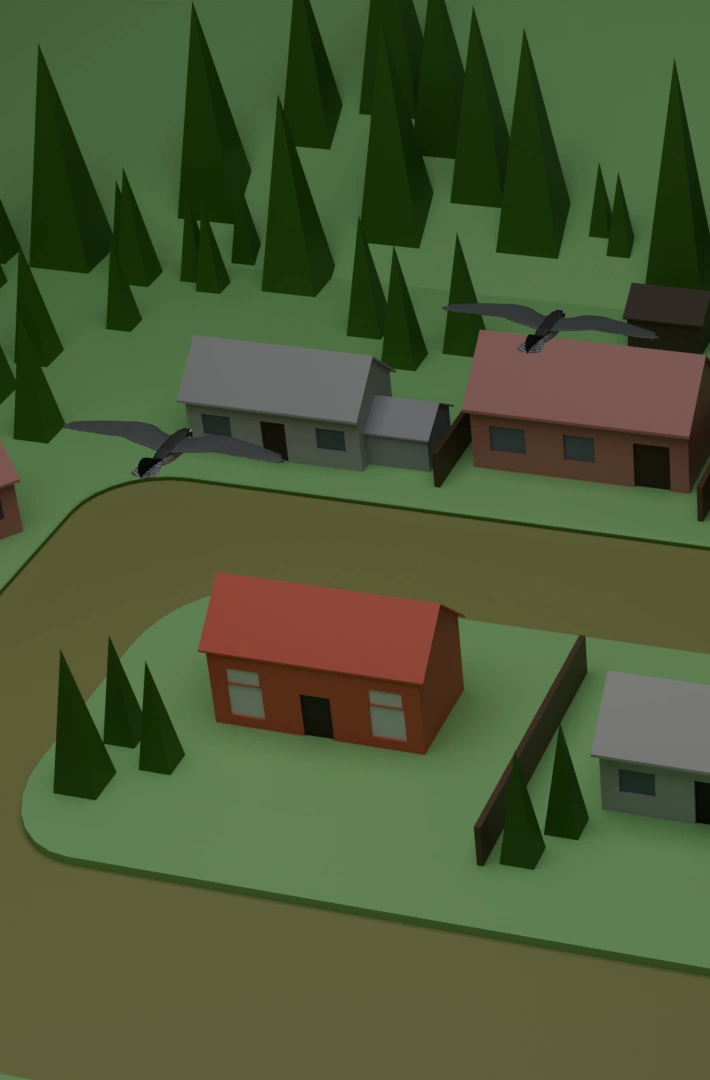
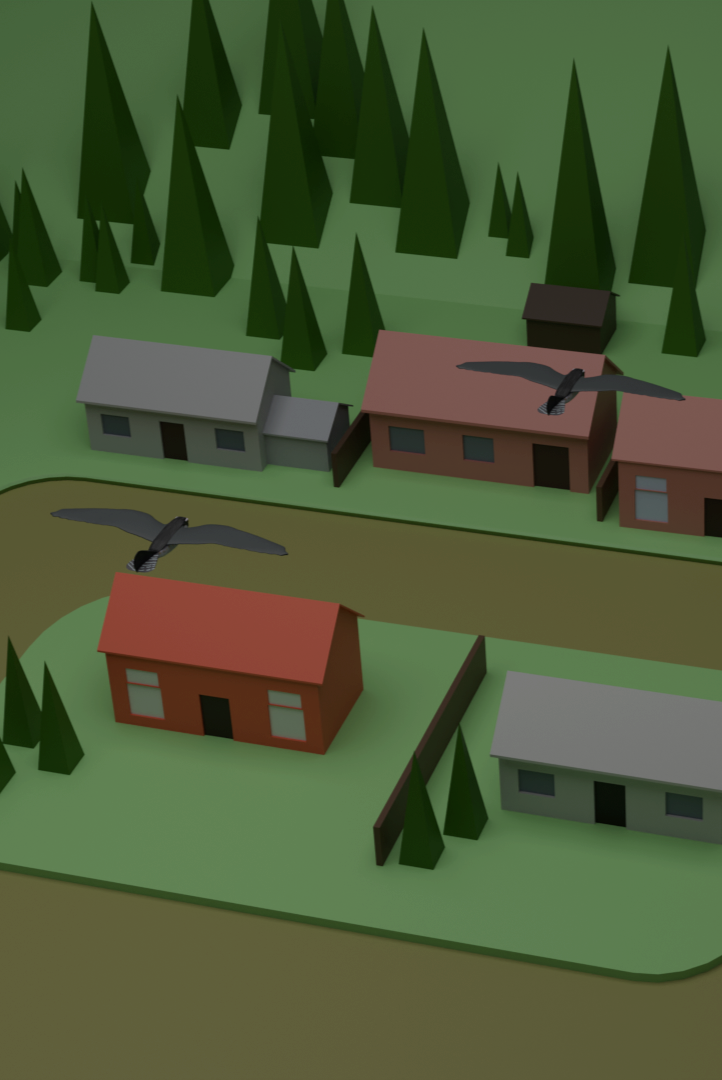
Chgt img village
+Correction espacements textes
+indentations js

diff --git a/src/designFiction.html b/src/designFiction.html
@@ -18,7 +18,7 @@
     <link rel="stylesheet" href="styles/app.css">
     <script src="scripts/app.js" defer></script>
     <script type="module" src="scripts/three-bird.js" defer></script>
-    <!-- <script type="module" src="scripts/app.js" defer></script> -->
+
 
     <link rel="icon" type="image/x-icon" href="assets/images/img_df/favicon.ico">
 
@@ -62,7 +62,7 @@
     <section class="section gridcol gridpc">
         <h2 class="title_tfa title--col1">La faiblesse d’un capteur...</h2>
         <p class="p p--col1col5__capt"><span>Des ralentissements ont été constatés au cours de la mission.</span> Les capteurs thermiques embarqués sur les drones se sont révélés insuffisamment performants pour distinguer clairement l’empreinte thermique d’une biche de celle d’un être humain. <span>Cette limitation technologique a entraîné plusieurs erreurs d’interprétation, orientant les équipes de sauvetage vers de fausses pistes.</span> Ces détours inutiles ont considérablement ralenti les opérations, entraînant une perte de temps précieuse dans un contexte où chaque minute&nbsp;comptait.</p>
-        <img class="img--capt" src="assets/images/img_df/img_th.webp" srcset="assets/images/@2x/ 2x" alt="">
+        <img class="img--capt" src="assets/images/img_df/img_th.webp" srcset="assets/images/@2x/ 2x" alt="Rendu 3D d'un capteur thermique que j'ai réalisé sur Blender.">
 
     </section>
 
@@ -83,12 +83,12 @@
 
     <a class="btn--temoins p--col4col8" href="pageTemoin.html">Lire les témoignages</a>
 
-    <img class="img--sent" src="assets/images/img_df/village.webp" alt="">
+    <img class="img--sent" src="assets/images/img_df/village.webp" alt="Rendu 3D d'un village survolé par 2 drones que j'ai réalisé sur Blender.">
     
 </section>
 <section class="section gridcol gridpc">
     <h2 class="title_tfa title--col3">Et le futur ?</h2>
-    <p class="p p--col2col6">Dans le futur, il serait possible d’adapter cette technologie à d’autres milieux nécessitant des approches différentes, comme les zones côtières, où les courants ascendants sont absents ou très faibles. Dans ce contexte, les chercheurs devront peut-être s’éloigner de l’univers des animaux volants pour s’inspirer d’autres espèces adaptées à ces environnements : pourquoi ne pas imaginer, par exemple, des crabes robotiques conçus pour accomplir des missions spécifiques dans ces&nbsp;milieux ?</p>
+    <p class="p p--col2col6">Dans le futur, il serait possible d’adapter cette technologie à d’autres milieux nécessitant des approches différentes, comme les zones côtières, où les courants ascendants sont absents ou très faibles. Dans ce contexte, les chercheurs devront peut-être s’éloigner de l’univers des animaux volants pour s’inspirer d’autres espèces adaptées à ces environnements : pourquoi ne pas imaginer, par exemple, des crabes robotiques conçus pour accomplir des missions spécifiques dans ces&nbsp;milieux&nbsp;?</p>
 </section> 
 
 
@@ -106,8 +106,7 @@
             <path d="M5 15l7-7 7 7"/>
         </svg>
     </button>
-
-    <a class="img--heaj" href="https://www.heaj.be/fr/" target="_blank"><img src="assets/images/img_prux/heaj_logo1.webp" alt="Logo de la Haute Ecole Albert Jacquard"></a> 
+<!-- <a class="img--heaj" href="https://www.heaj.be/fr/" target="_blank"><img src="assets/images/img_prux/heaj_logo1.webp" alt="Logo de la Haute Ecole Albert Jacquard"></a>  -->
 
 </footer>
 

diff --git a/src/styles/app.scss b/src/styles/app.scss
@@ -36,6 +36,7 @@ canvas{
     bottom: 0;
     z-index: -1;
     height: 100dvh;
+    grid-column: 1/-1;
 }
 
 p{
@@ -429,6 +430,7 @@ span{
     color: #121212;
     text-decoration: none;
     text-align: center;
+    margin-bottom: 23px;
 }
 
 .btn--temoins:hover, .btn--temoins2:hover{
@@ -575,9 +577,6 @@ span{
     grid-column: 1/-1;
     padding: 0;
     margin-top: 20px;
-}
-
-.footer--el__cs{
     margin-bottom: 16px;
     color: #fafafa;
 }
@@ -621,7 +620,7 @@ span{
     height: 24px;
     fill: white;
 }
-.img--heaj{
+/*.img--heaj{
     grid-column: 1/3;
     grid-row: 2/-1;
     width: 100%;
@@ -638,7 +637,7 @@ span{
 .img--heaj img{
     width: 100%;
     border-radius: 0;
-}
+}*/
 .gridcol{
     display: grid;
     grid-template-columns: repeat(5, 1fr);
@@ -756,12 +755,12 @@ span{
         font-size: 20px;
     }
 
-    .img--heaj{
+    /*.img--heaj{
         grid-column: 1/2;
         grid-row: 1/-1;
         margin-top: 22px;
         border-radius: 0;
-    }
+    }*/
 
     .foot{
         align-content: center;
@@ -1162,7 +1161,7 @@ span{
         grid-row: 5/-1;
     }
 
-    .img--heaj{
+    /*.img--heaj{
         grid-row: 5/-1;
         grid-column: 1/1;
         border-radius: 0;
@@ -1171,7 +1170,7 @@ span{
     .img--heaj img{
         width: 75%;
         border-radius: 0;
-    }
+    }*/
 
     .img--col2col4{
         grid-column: 2/4;

diff --git a/src/scripts/app.js b/src/scripts/app.js
@@ -3,44 +3,46 @@
 //Anim titres
 
 gsap.from(".title--big", {
-  duration: 1,
-  y: 50,
-  opacity: 0,
-  ease: "power3.out",
+    duration: 1,
+    y: 50,
+    opacity: 0,
+    ease: "power3.out",
 });
 gsap.from(".p--center__big",{
-  delay: 0.3,
-  duration: 1,
-  y: 50,
-  opacity: 0,
-  ease: "power3.out",
+    delay: 0.3,
+    duration: 1,
+    y: 50,
+    opacity: 0,
+    ease: "power3.out",
 });
 
-//lignes projets portfolio
+    //lignes projets portfolio
 
 gsap.from(".ligne-haut",{
-  scrollTrigger: {
-    trigger: ".ligne-haut",
-    start: "top 80%",
-    toggleActions: "play none none none"
-  },
-  duration: 1,
-  x: 200,
-  opacity: 0,
-  ease: "power3.out",
+    scrollTrigger: {
+        trigger: ".ligne-haut",
+        start: "top 80%",
+        toggleActions: "play none none none"
+    },
+    duration: 1,
+    x: 200,
+    opacity: 0,
+    ease: "power3.out",
 });
 
 gsap.from(".ligne-bas",{
-  scrollTrigger: {
-    trigger: ".ligne-bas",
-    start: "top 80%",
-    toggleActions: "play none none none"
-  },
-  duration: 1,
-  x: -200,
-  opacity: 0,
-  ease: "power3.out",
+    scrollTrigger: {
+        trigger: ".ligne-bas",
+        start: "top 80%",
+        toggleActions: "play none none none"
+    },
+    duration: 1,
+    x: -200,
+    opacity: 0,
+    ease: "power3.out",
 });
+
+
 
 //menu
 
